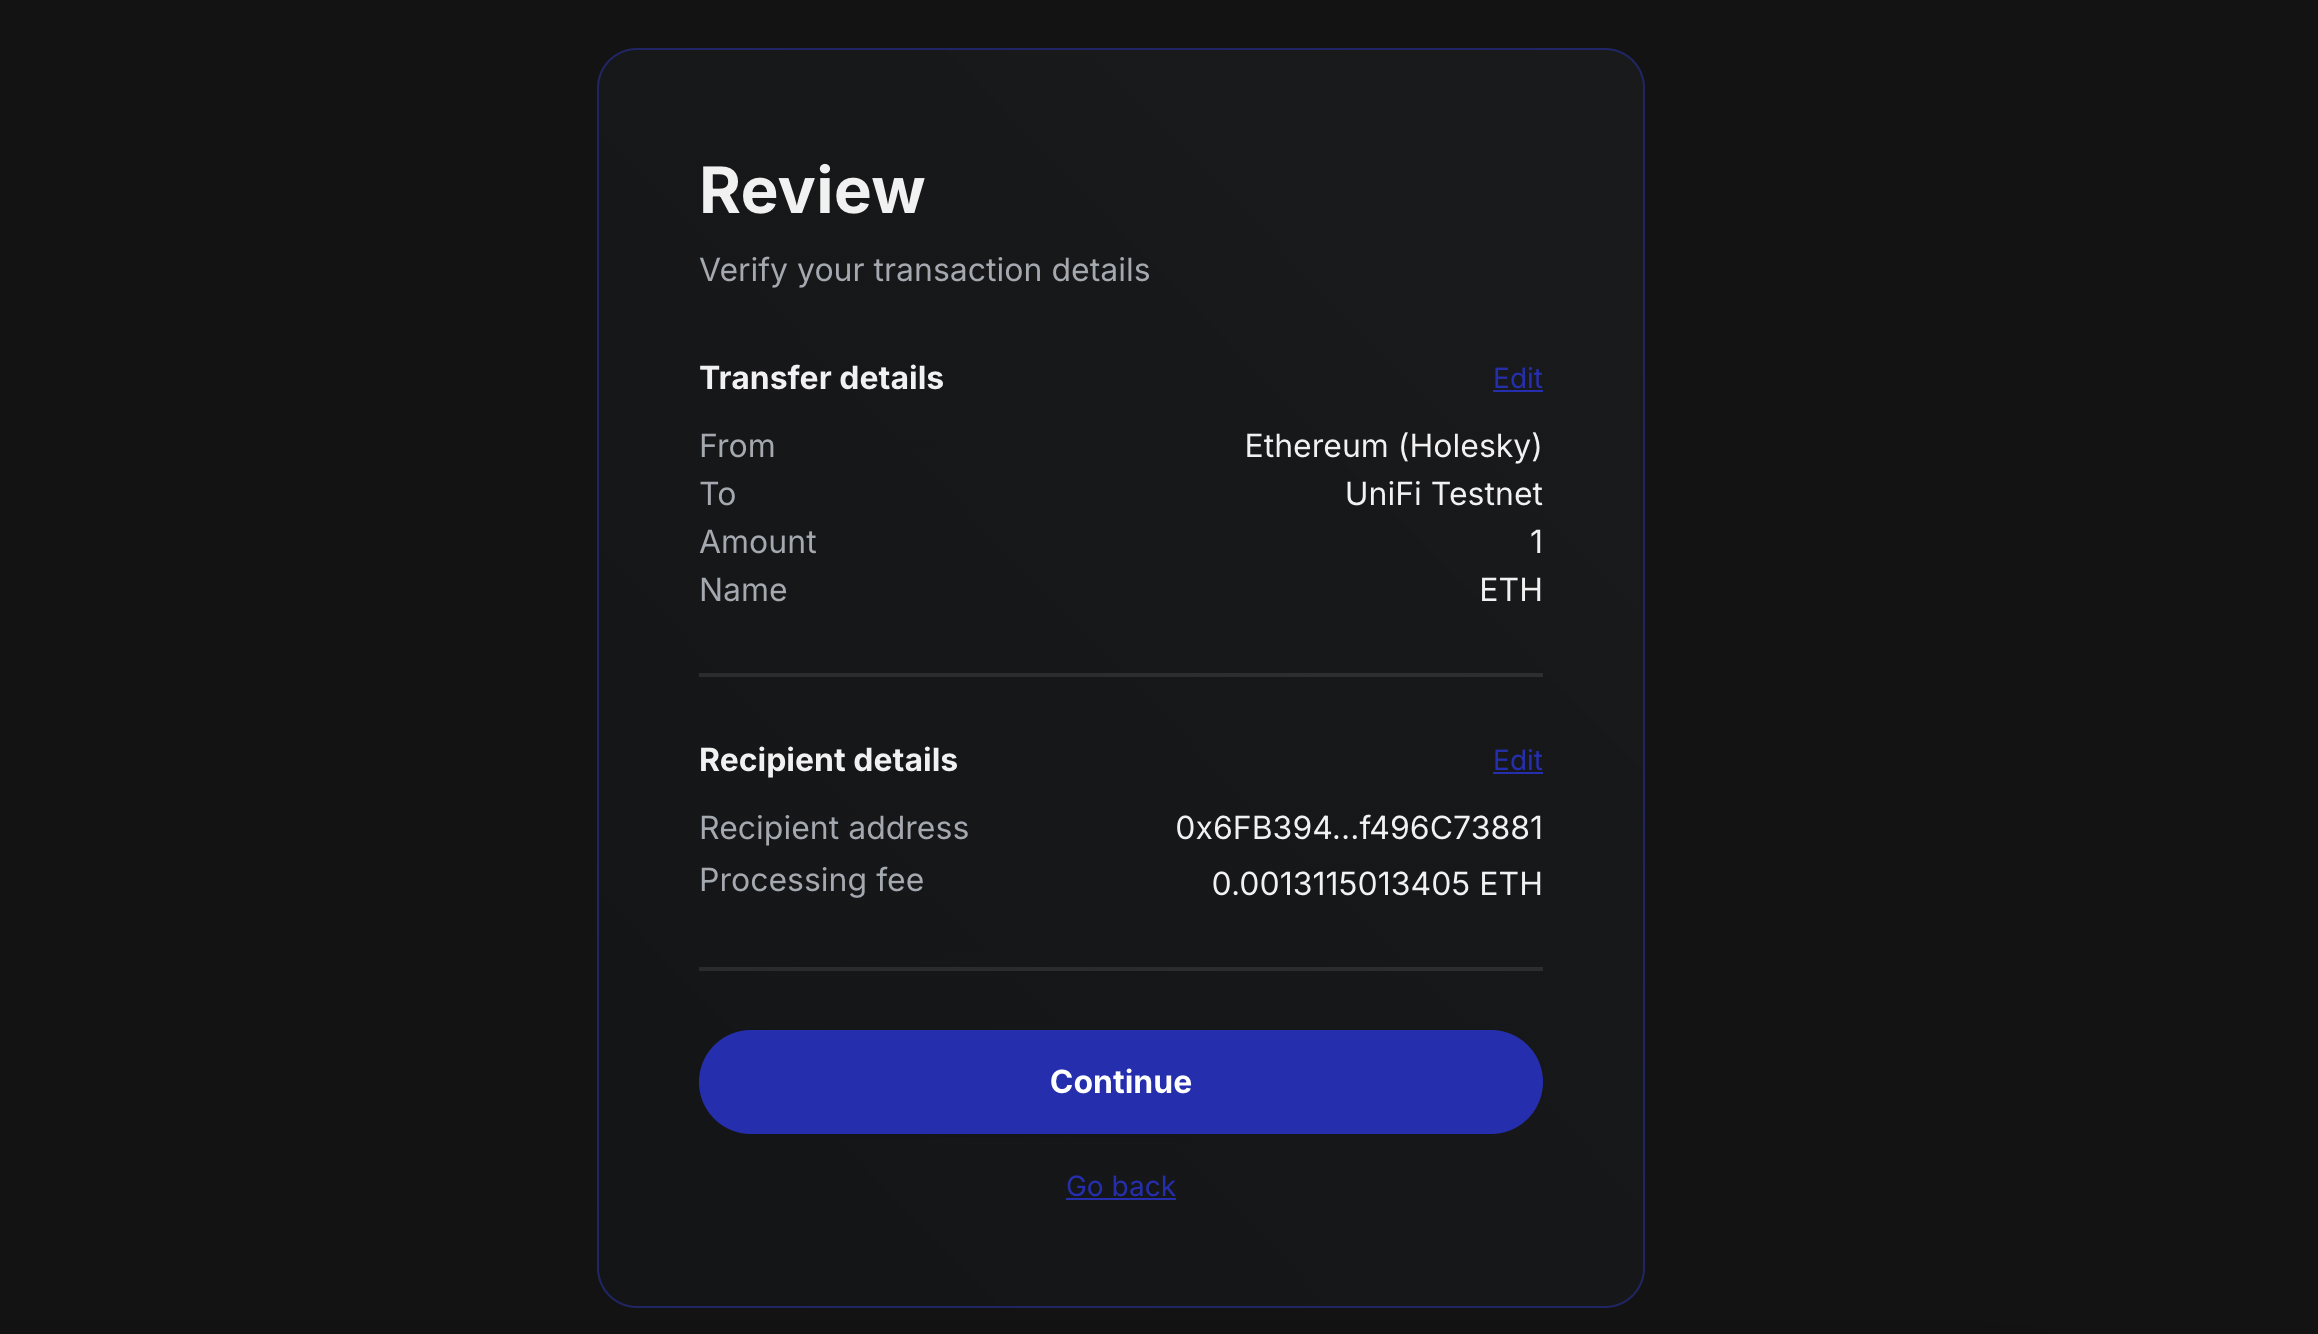
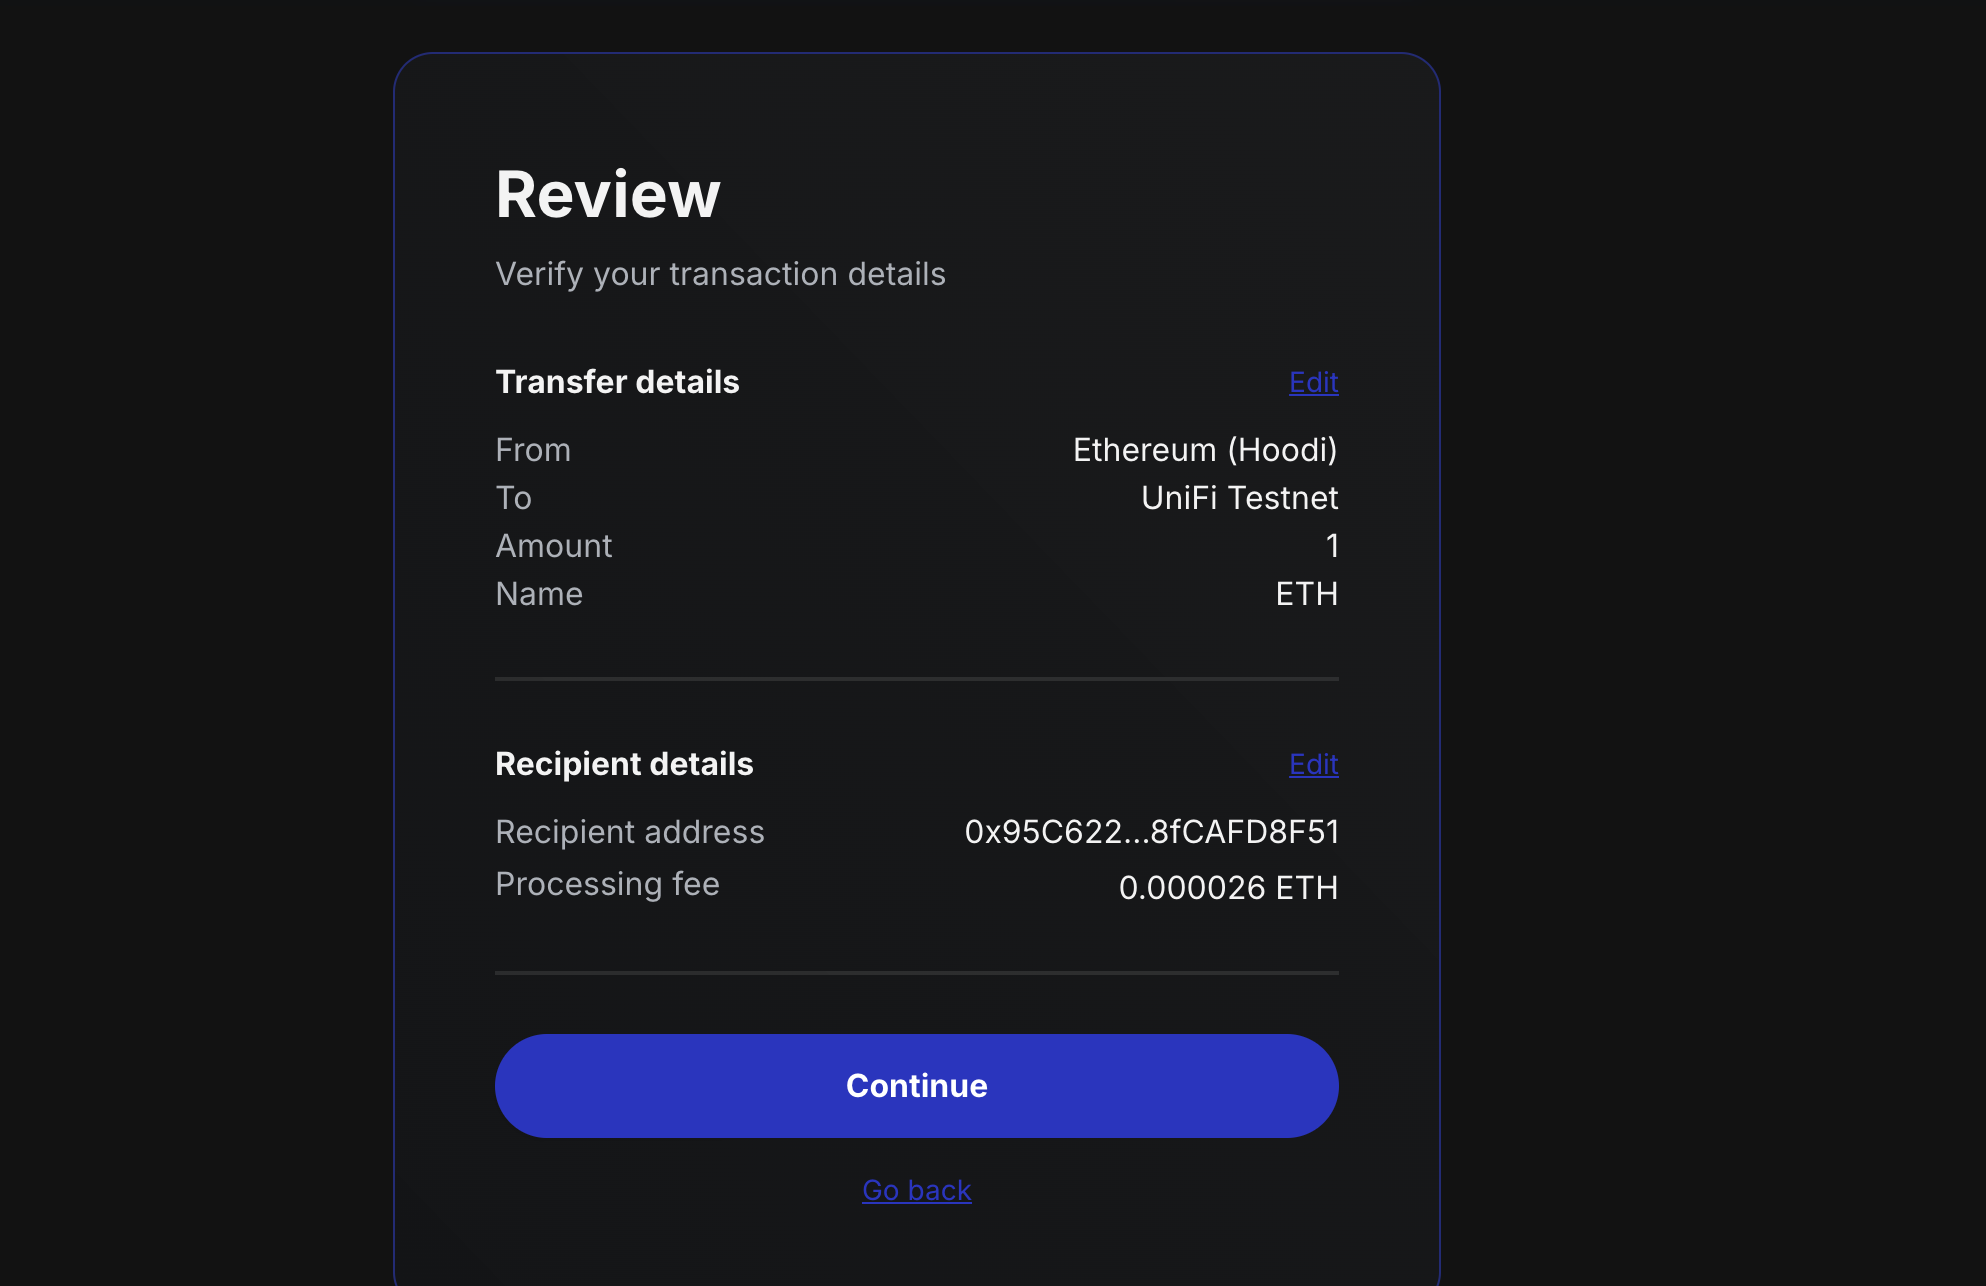
Update RPC endpoints, Faucet and Bridging

diff --git a/docs/developers/getting-started/bridge-ui.md b/docs/developers/getting-started/bridge-ui.md
@@ -3,10 +3,6 @@ title: How to use UniFi Bridge
 slug: /developers/getting-started/bridge-ui
 ---
 
-:::info
-   Bridging is currently paused as testnet access is being rolled out gradually. If you are keen to try out UniFi Testnet, feel free to express your interest [here.](https://forms.gle/ws4YxryeZbXHnfRdA)
-:::
-
 # Using the UniFi Bridge
 
 In order to use the UniFi Rollup Bridge, you need to have a compatible wallet and some funds on the L1 network.
@@ -19,7 +15,7 @@ This guide will help you bridge your funds from the L1 network to the UniFi Roll
 2. Connect your preferred wallet.
 
    ![Connecting the wallet](/img/rollup/connect-wallet.png)
-3. Switch your connected network to L1 (Holesky).
+3. Switch your connected network to L1 (Hoodi).
 
    - This can be done manually from the top right corner of the page by clicking on your wallet address.
 
@@ -33,23 +29,16 @@ This guide will help you bridge your funds from the L1 network to the UniFi Roll
 6. Accept the transaction in your wallet.
 7. Track the transaction in the Transactions tab.
    ![Transaction tab](/img/rollup/transaction-tab.png)
+   :::info
+   Transaction tab may not be working as expected, however, it does not affect the bridging process. You will see your bridged funds in the L2 network in around just 1 minute.
+   :::
 8. After a few minutes, the transaction will be confirmed and the status will change to Claimed.
    ![Claimed transaction](/img/rollup/claimed-transaction.png)
 9. Once the transaction is confirmed, you can switch to the L2 network (UniFi) and see your bridged funds in your wallet.
-
-### Claiming Manually (Optional)
-
-If you want to claim your bridged funds manually, you can do so by following these steps:
-
-1. Press the Claim button on the transaction.
-   ![Claim button](/img/rollup/claim-button.png)
-2. Review the transaction details and press confirm.
-   ![Claim transaction](/img/rollup/claim-transaction.png)
-3. After transaction confirmation, you will see your bridged funds in your wallet.
 
 ## How to bridge (withdraw) ETH from UniFi
 
 1. Make sure that you've selected UniFi Testnet as your source chain
    ![Token Selection L2](/img/rollup/select-token-l2.png)
 
-2. The next steps are the same as when depositing ETH.
+2. The next steps are the same as when depositing ETH. Once the transaction is confirmed, you can switch to the L1 network (Hoodi) and see your bridged funds in your wallet. The withdrawal will be processed automatically in nearly the same L1 block.

diff --git a/docs/developers/reference/rpc-endpoints.md b/docs/developers/reference/rpc-endpoints.md
@@ -10,7 +10,7 @@ You can find access information to UniFi Testnet RPC below:
 | Parameter          | Value                                    |
 |--------------------|------------------------------------------|
 | Network Name       | `UniFi Testnet`                          |
-| Chain ID           | `8787`                                   |
+| Chain ID           | `2092151908`                                   |
 | Currency Symbol    | ETH                                      |
 | Block Explorer     | https://testnet-explorer-unifi.puffer.fi |
 | Sequencer URL      | https://testnet-rpc-unifi.puffer.fi      |

diff --git a/docs/developers/getting-started/acquire-testnet-tokens.md b/docs/developers/getting-started/acquire-testnet-tokens.md
@@ -24,7 +24,7 @@ To connect to the UniFi Testnet, follow these steps:
 3. Enter the following details:
    - **Network Name**: `UniFi Testnet`
    - **RPC URL**: `https://testnet-rpc-unifi.puffer.fi/`
-   - **Chain ID**: `8787`
+   - **Chain ID**: `2092151908`
    - **Currency Symbol**: `ETH`
    - **Block Explorer URL**: `https://testnet-explorer-unifi.puffer.fi/`
 
